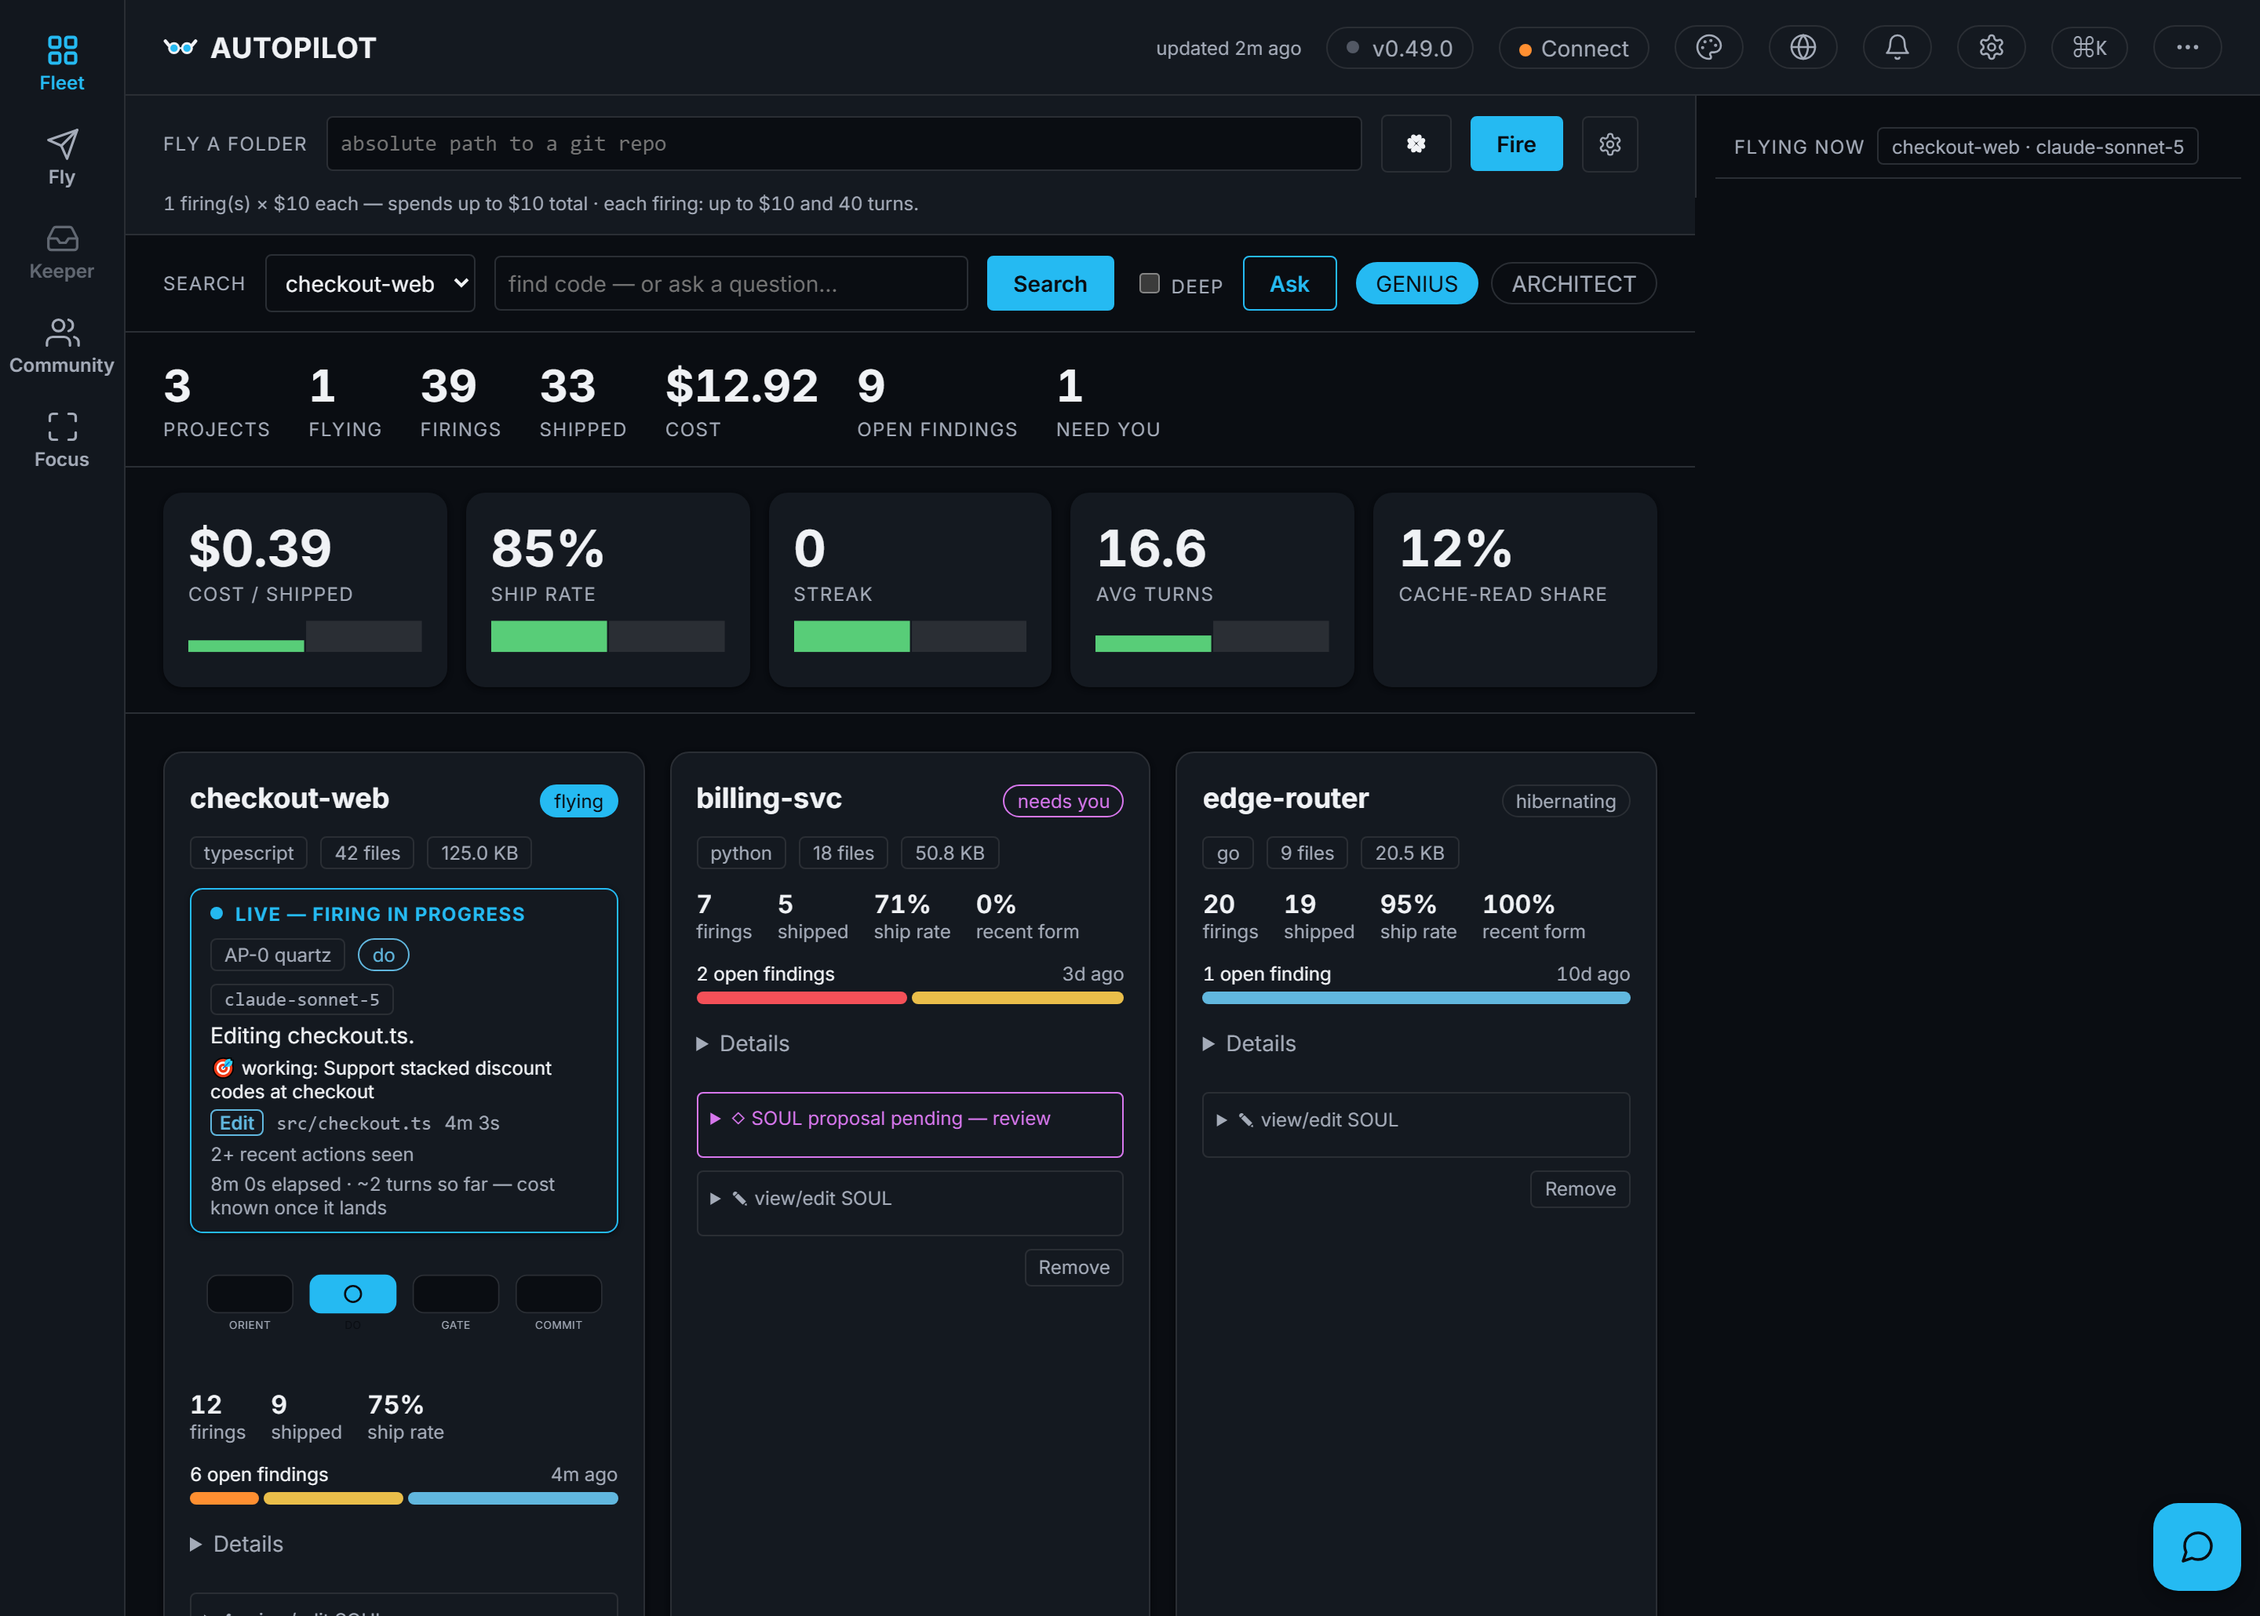
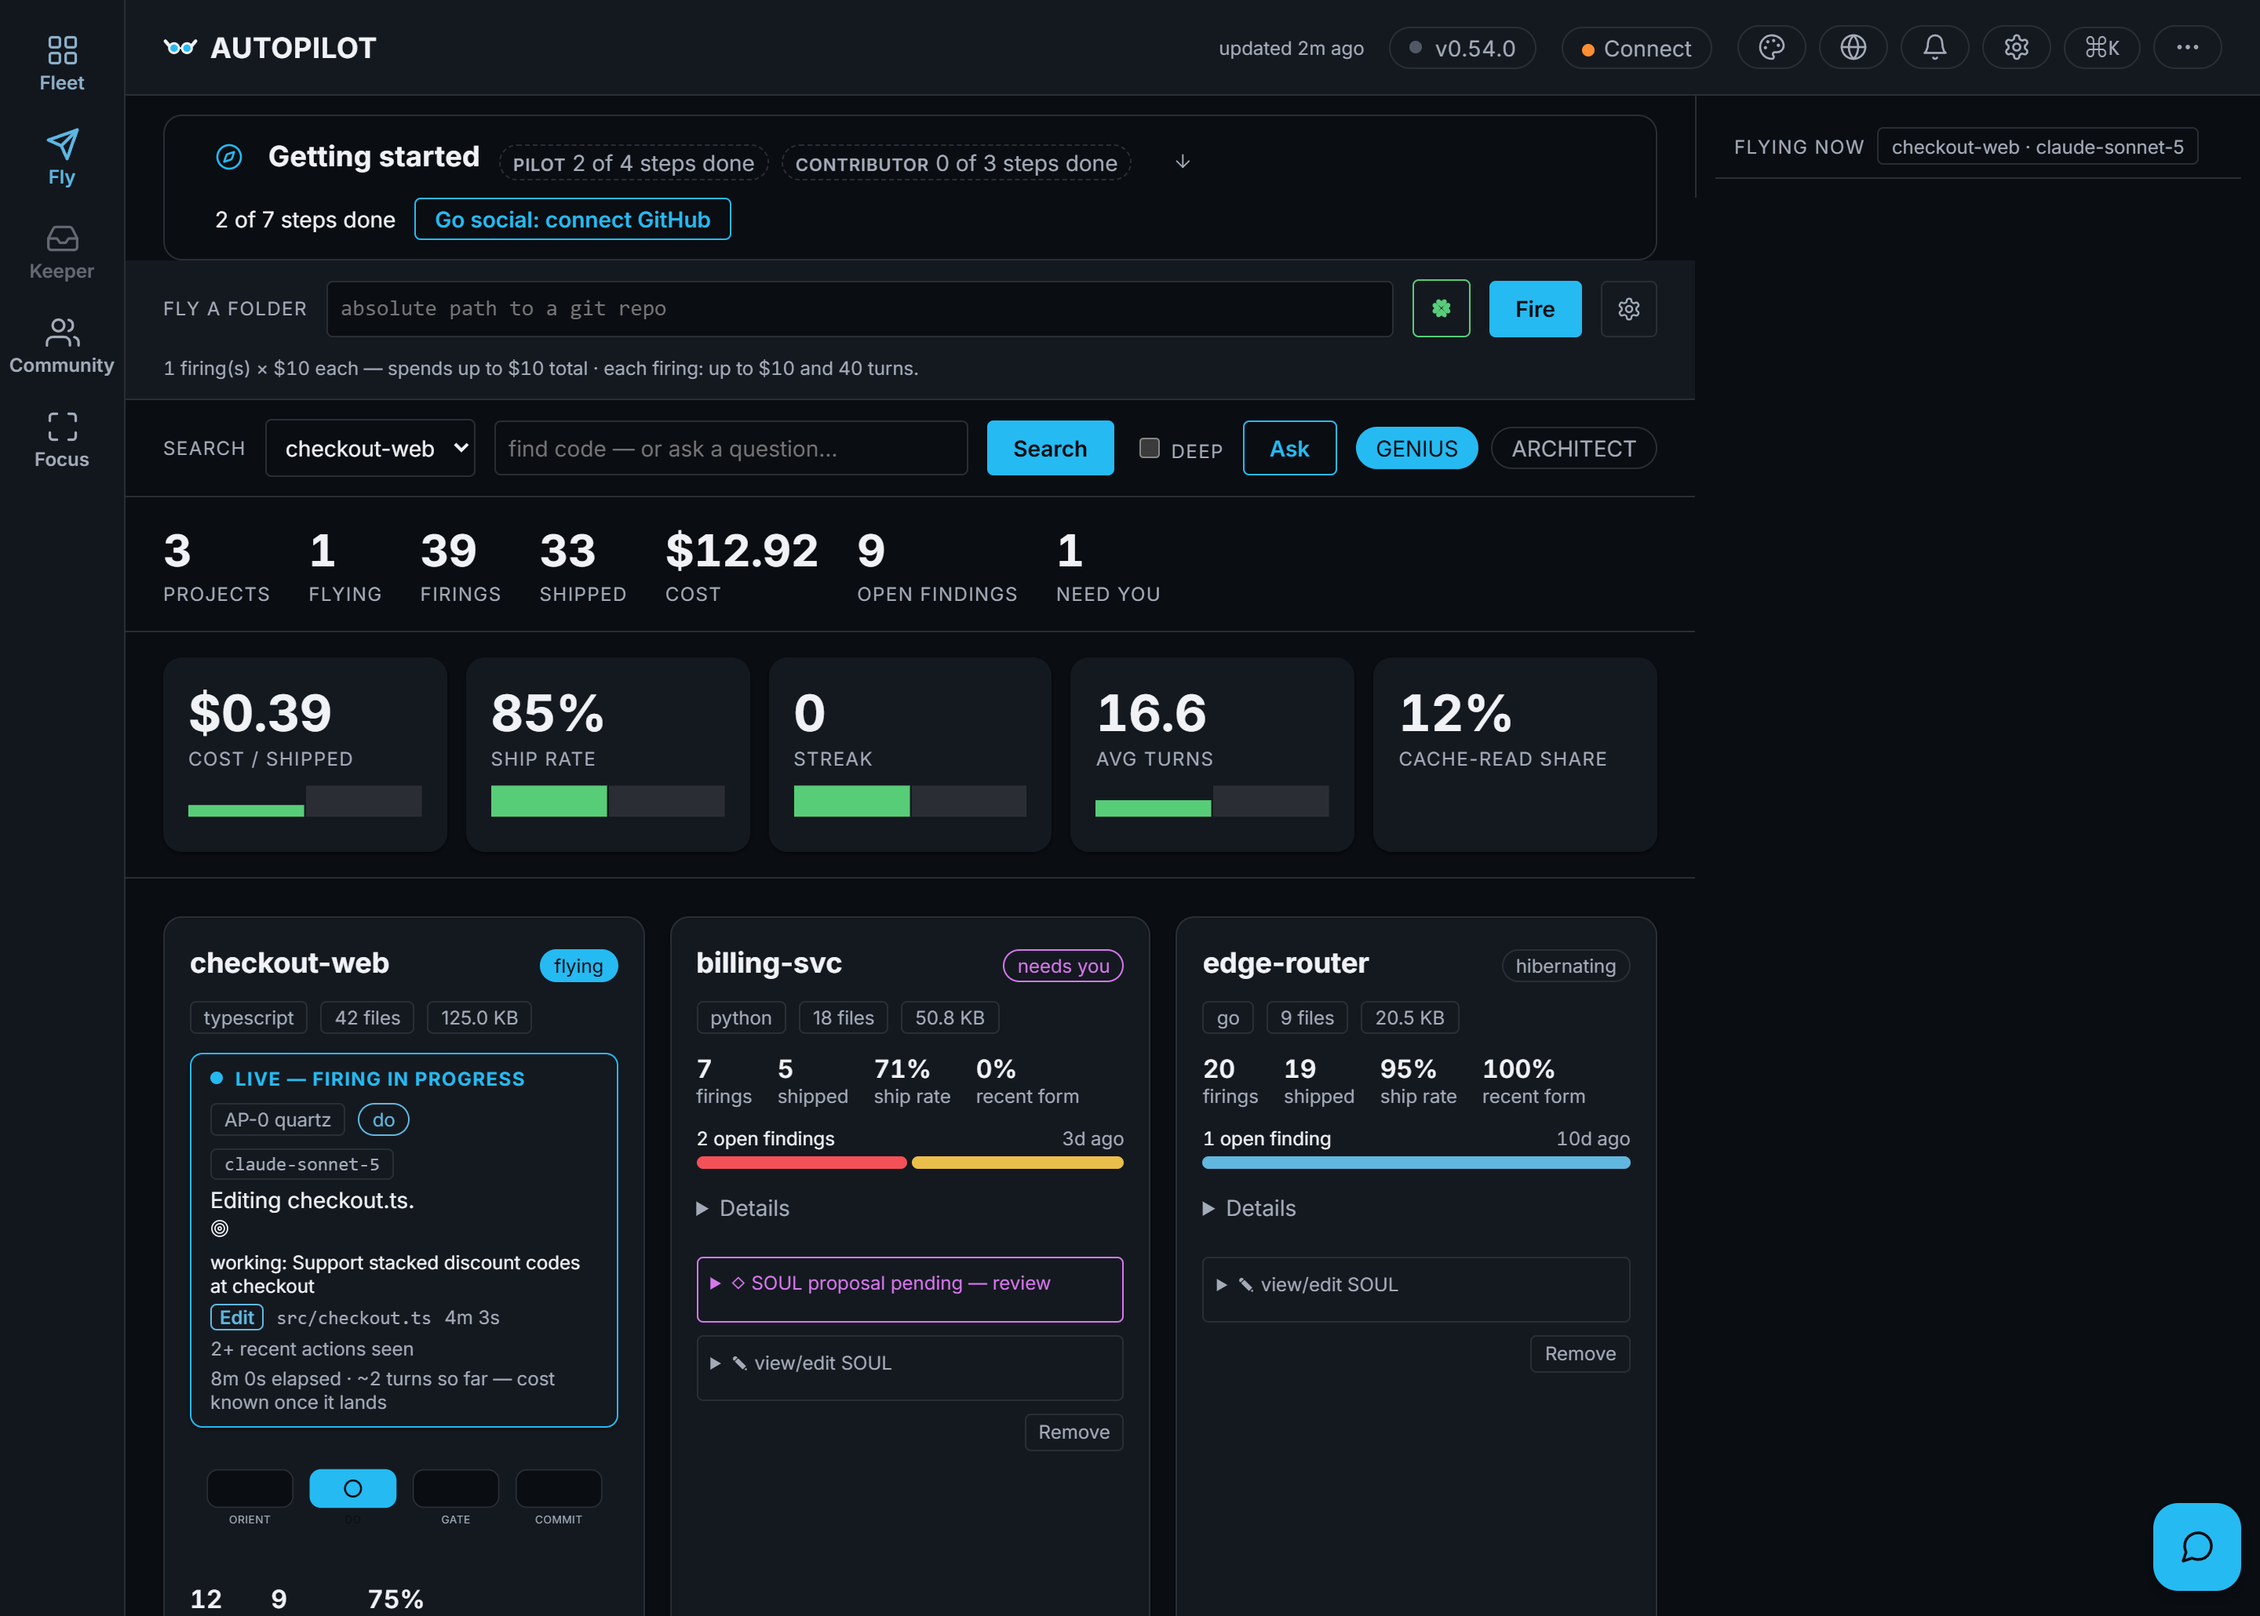
docs(screens): retake every frame at v0.54.0, and end the evolution strip on the terminal theme
The strip gains the v0.49.0 frame and ends on a new fleet-terminal.png: the terminal theme with scanlines, glow and the HUD bar on. Every frame is now a returning operator's view with the getting-started guide hidden, so the README shows the product rather than the checklist. Both scripts take AP_CAPTURE_CHANNEL to use an installed browser.

diff --git a/README.md b/README.md
@@ -189,9 +189,10 @@ The first question anyone should ask an agent that edits code.
 ## It builds itself — and you can audit the claim
 
 Most of this repository's commits were shipped by AUTOPILOT's own fleets. The same screen, at
-three points in its own history, each frame taken from the README that shipped at that version:
+five points in its own history, each earlier frame taken from the README that shipped at that
+version, and today's in the terminal theme with every effect on:
 
-![The fleet home at v0.21.0, v0.42.0 and today, side by side](docs/screens/evolution.png)
+![The fleet home at v0.10.0, v0.21.0, v0.42.0, v0.49.0 and today in the terminal theme, side by side](docs/screens/evolution.png)
 
 ```bash
 git log --format=%B | grep -c "Firing-Prompt-Version"   # commits carrying the fleet's trailer
